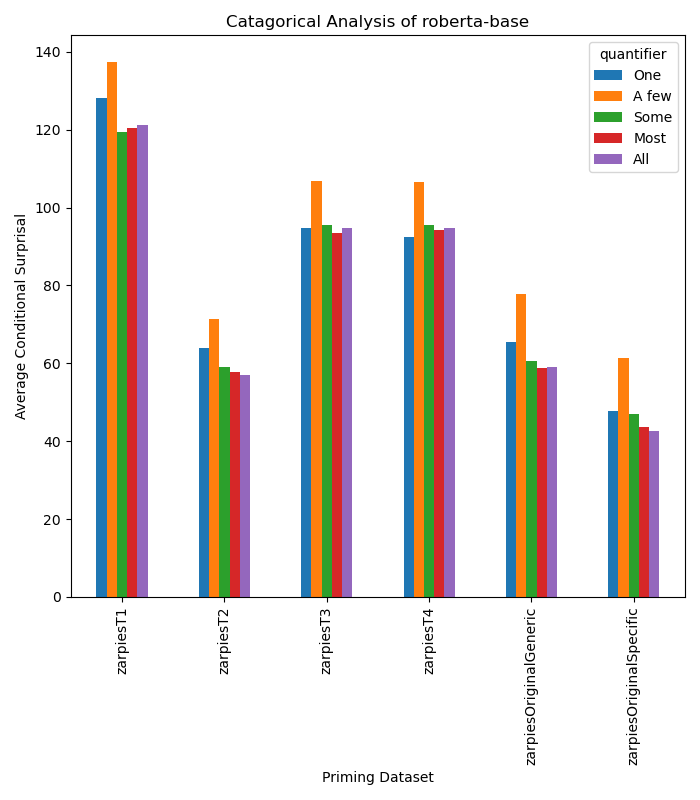
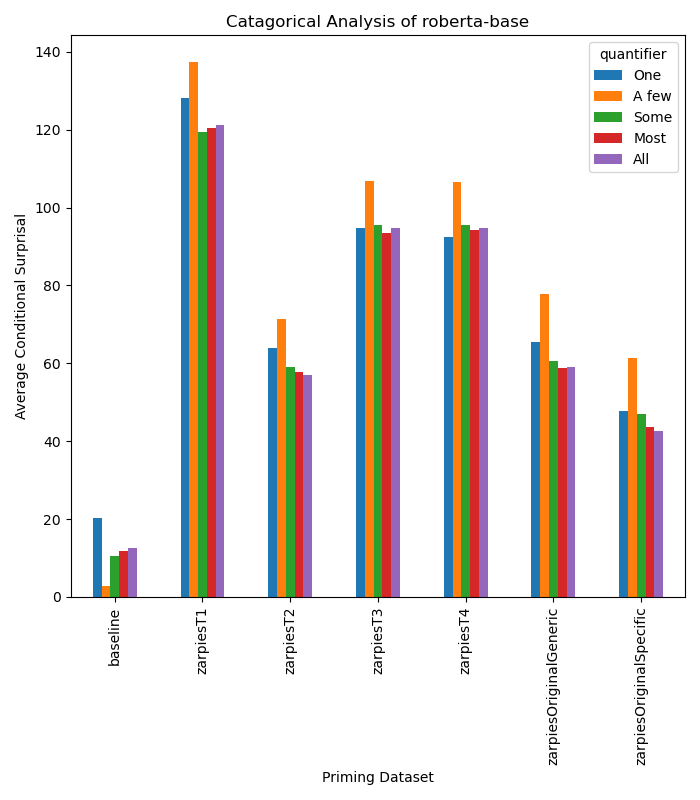
Fixed a bug where baseline scores were not showing in the behavioral2 graphs

diff --git a/behavioral2_graphs.py b/behavioral2_graphs.py
@@ -10,7 +10,7 @@ os.environ["KMP_DUPLICATE_LIB_OK"] = "TRUE"
 
 def make_pandas_barchart(data, outpath, y_labl, title):
     _, _, datasets = get_model_names_and_data()
-    datasets = [d.replace(".txt", "") for d in datasets]
+    datasets = ["baseline"] + [d.replace(".txt", "") for d in datasets]
 
     df = pandas.DataFrame(data, columns=['prime-data', 'quantifier', 'value'])
     df['quantifier'] = pandas.Categorical(df['quantifier'],
